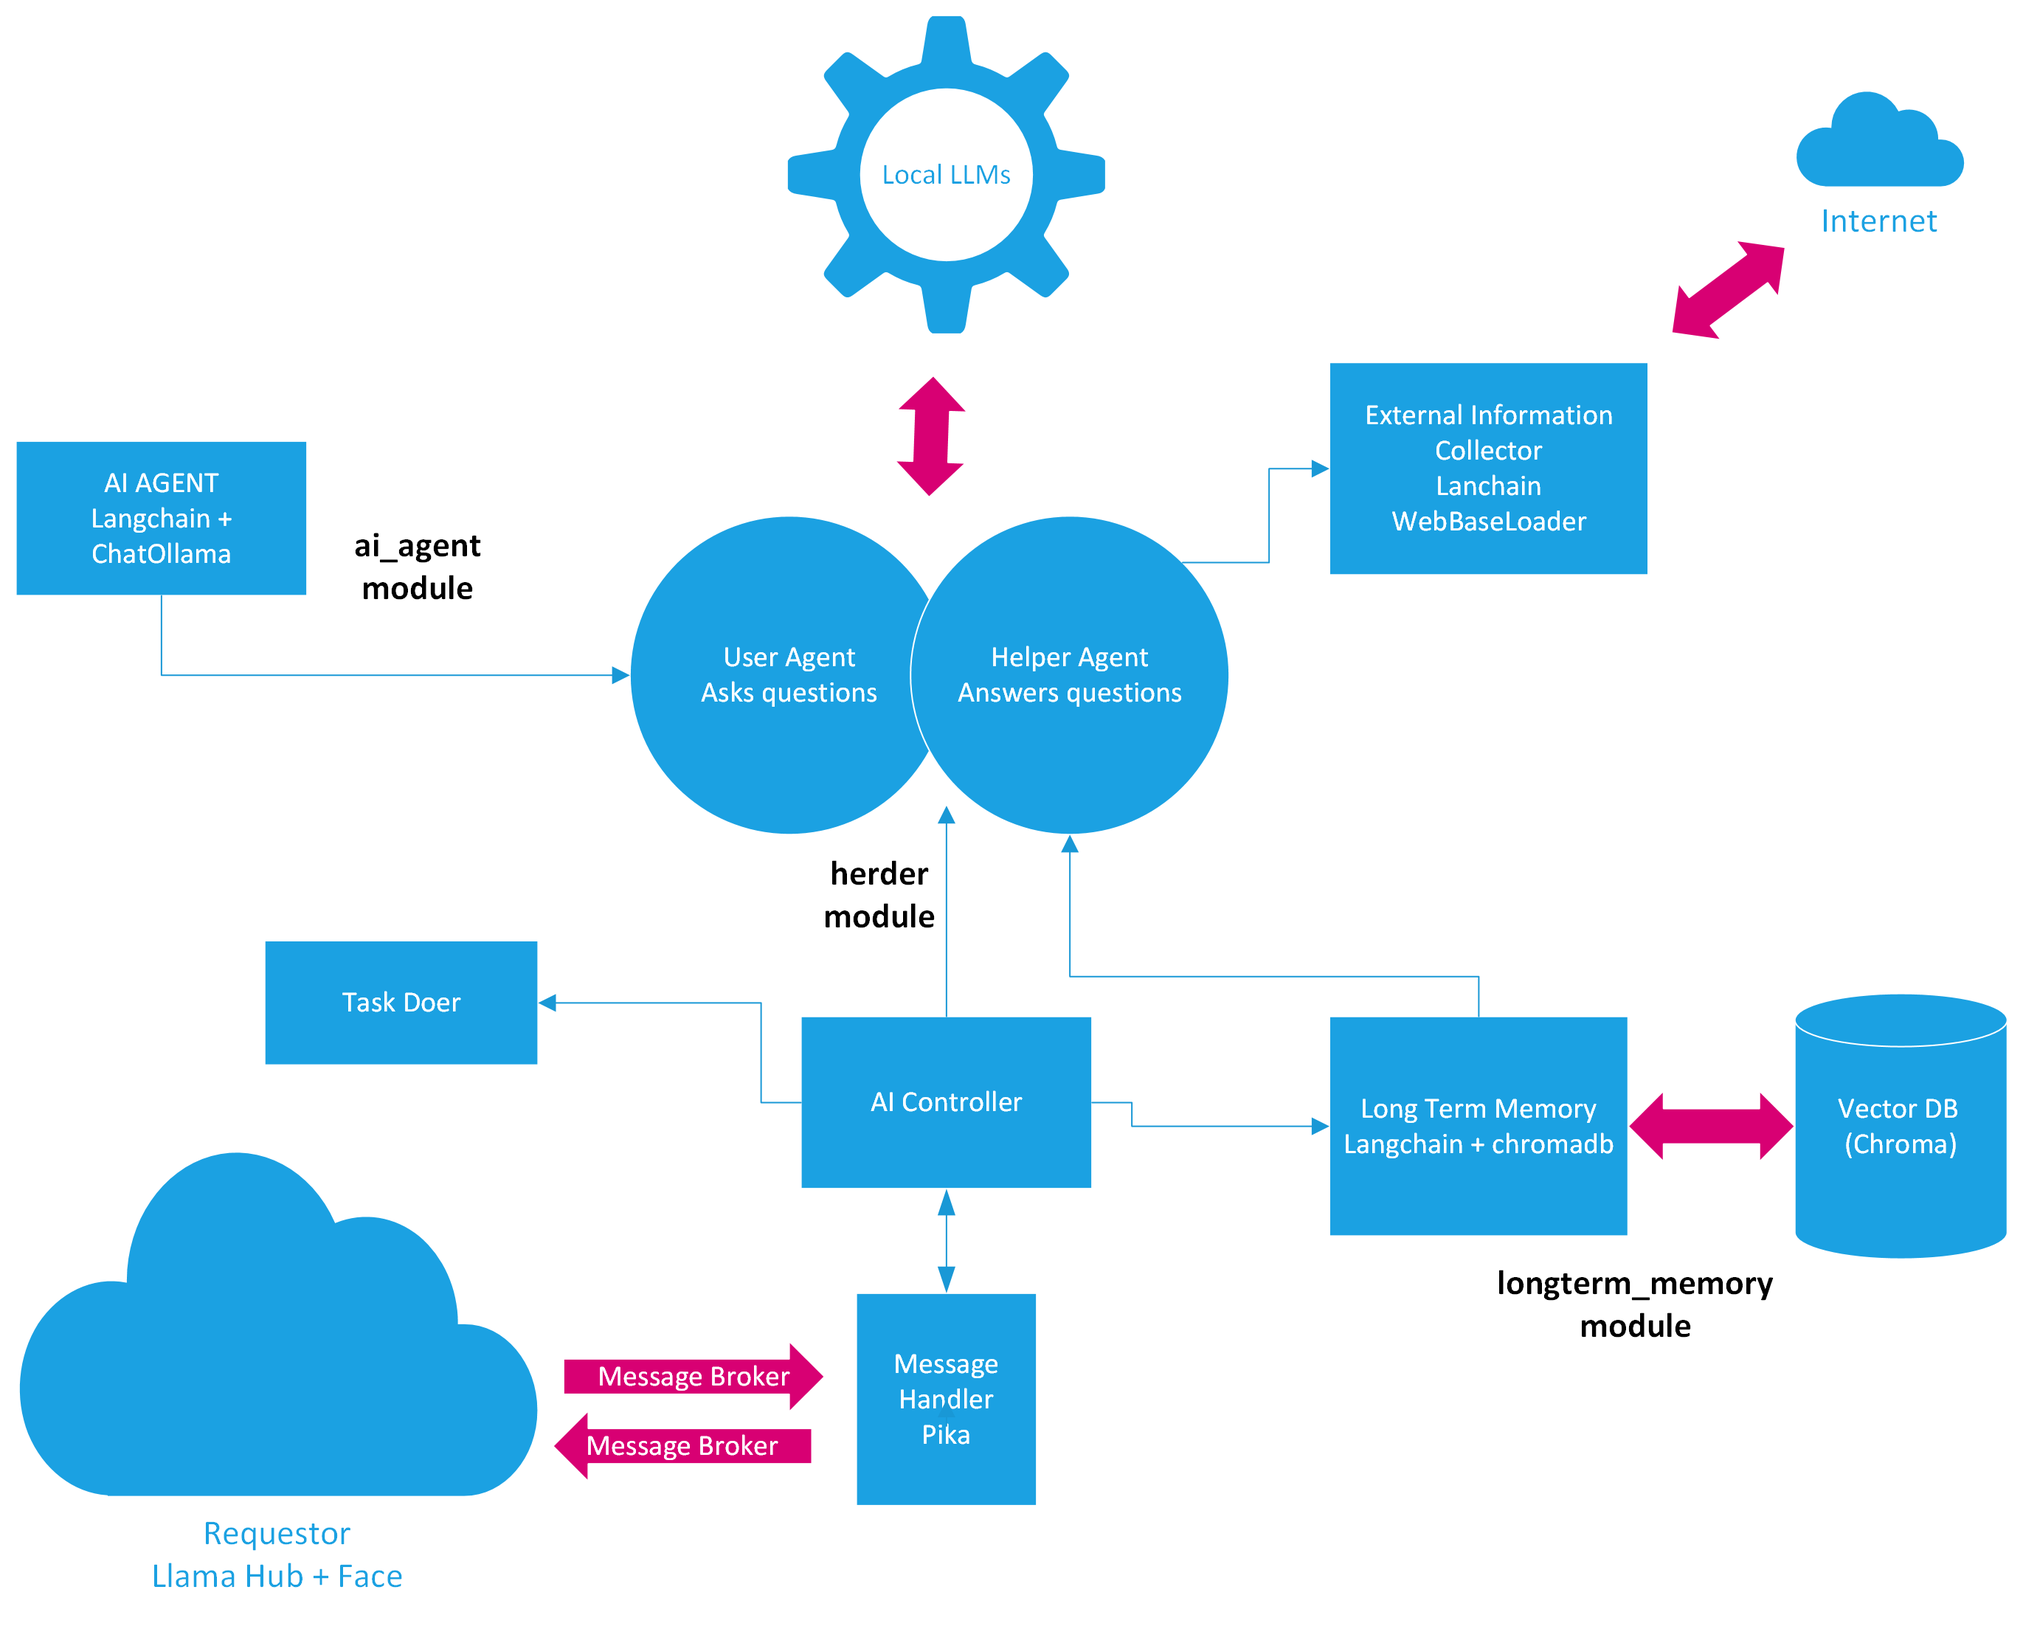
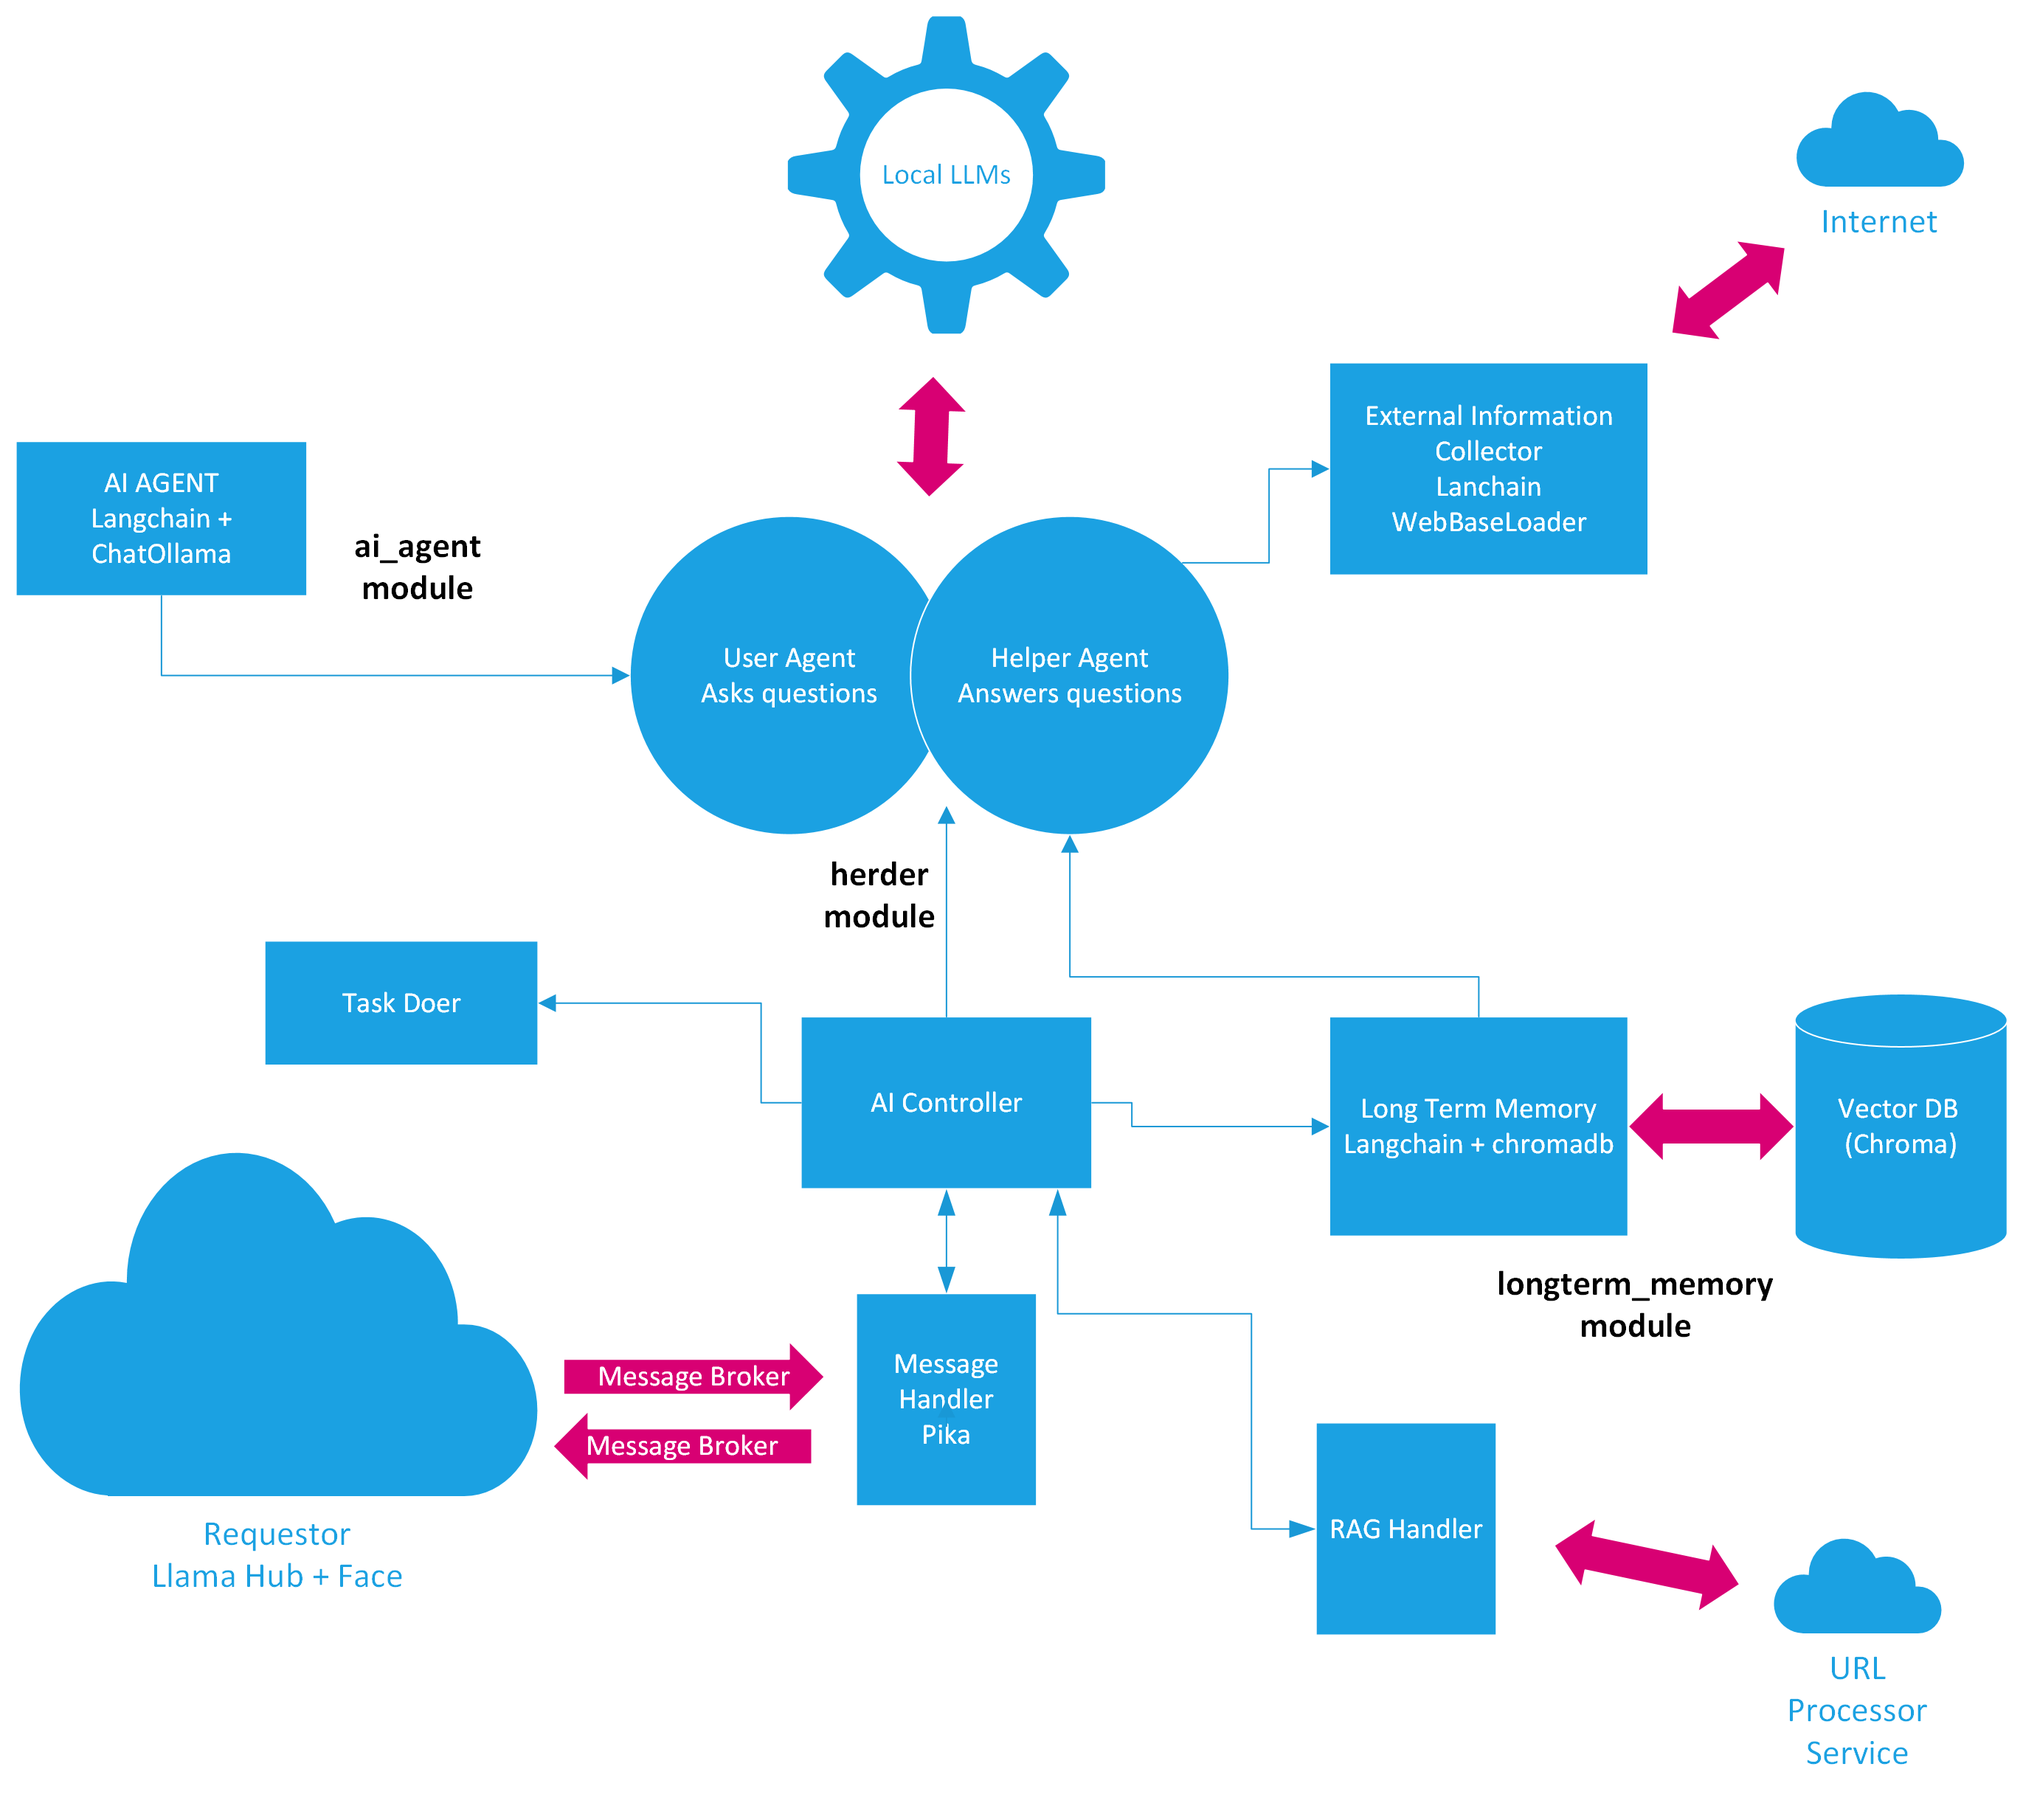
Added RAG handler

diff --git a/rag_handler/tests/test_handler.py b/rag_handler/tests/test_handler.py
@@ -1,0 +1,29 @@
+from unittest.mock import patch, Mock
+import unittest
+from rag_handler import Handler
+
+class TestHandler(unittest.TestCase):
+    def setUp(self):
+        self.test_rag_service_url = "testurl"
+        self.handler = Handler(self.test_rag_service_url,10)
+
+    def test_initialize_the_handler(self):
+        handler = Handler(self.test_rag_service_url,10)
+        self.assertIsInstance(handler, Handler)
+        self.assertEqual(handler.rag_service_url, self.test_rag_service_url)
+
+    @patch('rag_handler.handler.requests.post')
+    def test_invoke_service_with_one_url(self, mock_post):
+
+        test_url = "http://example.com"
+        expected_response = {
+            "url": test_url,
+            "content": "test website content"
+        }
+        mock_post.return_value = Mock(status_code=200)
+        mock_post.return_value.json.return_value = [expected_response]
+
+        result = self.handler.process_urls([test_url])
+
+        mock_post.assert_called_once_with(f"{self.test_rag_service_url}/process-urls", json=[test_url],timeout=10)
+        self.assertEqual(result, [expected_response])

diff --git a/rag_handler/handler.py b/rag_handler/handler.py
@@ -1,0 +1,12 @@
+import requests
+# pylint: disable=too-few-public-methods
+
+class Handler:
+    def __init__(self, rag_service_url:str,timeout:int):
+        self.rag_service_url = rag_service_url
+        self.timeout = timeout
+
+    def process_urls(self, urls):
+        response = requests.post(f"{self.rag_service_url}/process-urls", json=urls,timeout=self.timeout)
+        response.raise_for_status()
+        return response.json()

diff --git a/config.py b/config.py
@@ -23,3 +23,6 @@ GENERALPROMPT = PromptTemplate(
 
 #CLOUD URL
 CLOUDAMQP_URL = os.getenv('CLOUDAMQP_URL','no_CLOUDAMQP_Variable')
+
+#API TIMEOUT
+API_CALL_TIMEOUT = 30

diff --git a/rag_handler/__init__.py b/rag_handler/__init__.py
@@ -1,0 +1,1 @@
+from .handler import Handler
